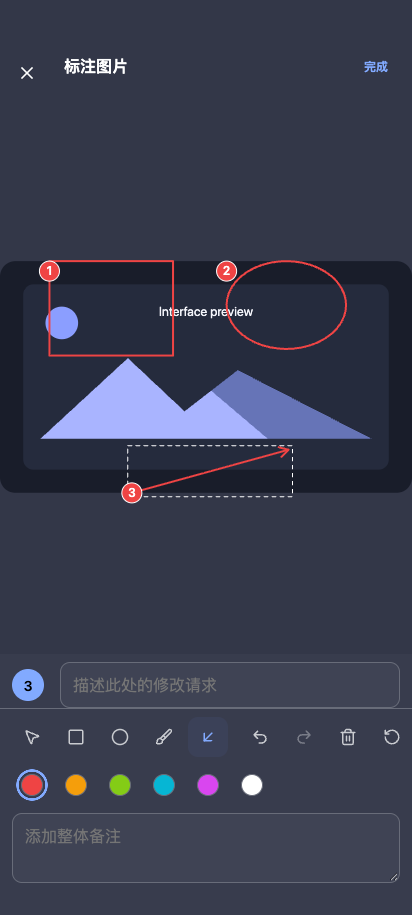
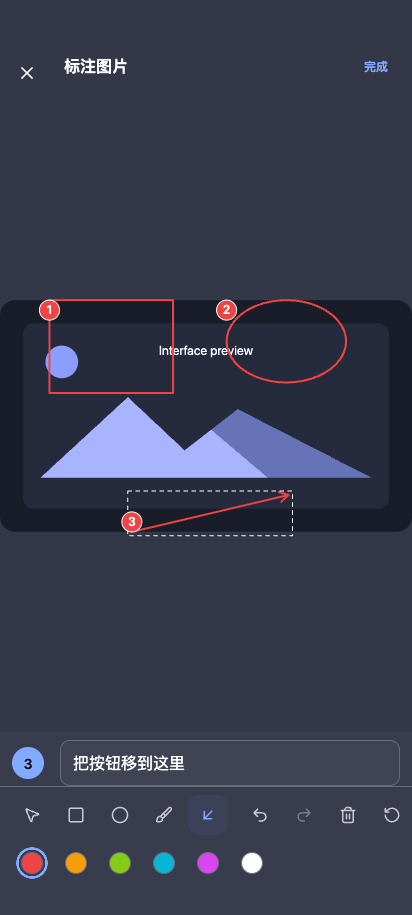
docs: refresh composer annotation screenshots

diff --git a/src/dev/screenshotFixture.tsx b/src/dev/screenshotFixture.tsx
@@ -2245,6 +2245,7 @@ ReactDOM.createRoot(document.getElementById('root')!).render(
           ) : screenshotParams.has('annotator') ? (
             <ImageAnnotator
               source={ANNOTATOR_FIXTURE_SOURCE}
+              mode="markup"
               onDone={() => undefined}
               onCancel={() => undefined}
             />

diff --git a/CHANGELOG.md b/CHANGELOG.md
@@ -8,7 +8,7 @@ The format is based on [Keep a Changelog](https://keepachangelog.com/en/1.1.0/),
 
 ### Added
 
-- Composer attachments now stay local, survive draft restoration, support markup on pending images, and upload only when the message is sent or queued.
+- Composer attachments now stay local, survive draft restoration, support numbered markup with editable region descriptions on pending images, append labeled regions to the composer for review, and upload only when the message is sent or queued.
 - Image edit requests can be marked up directly from the gallery with numbered regions, labels, and an overall note, then reviewed as structured cards in the thread.
 
 ### Fixed
